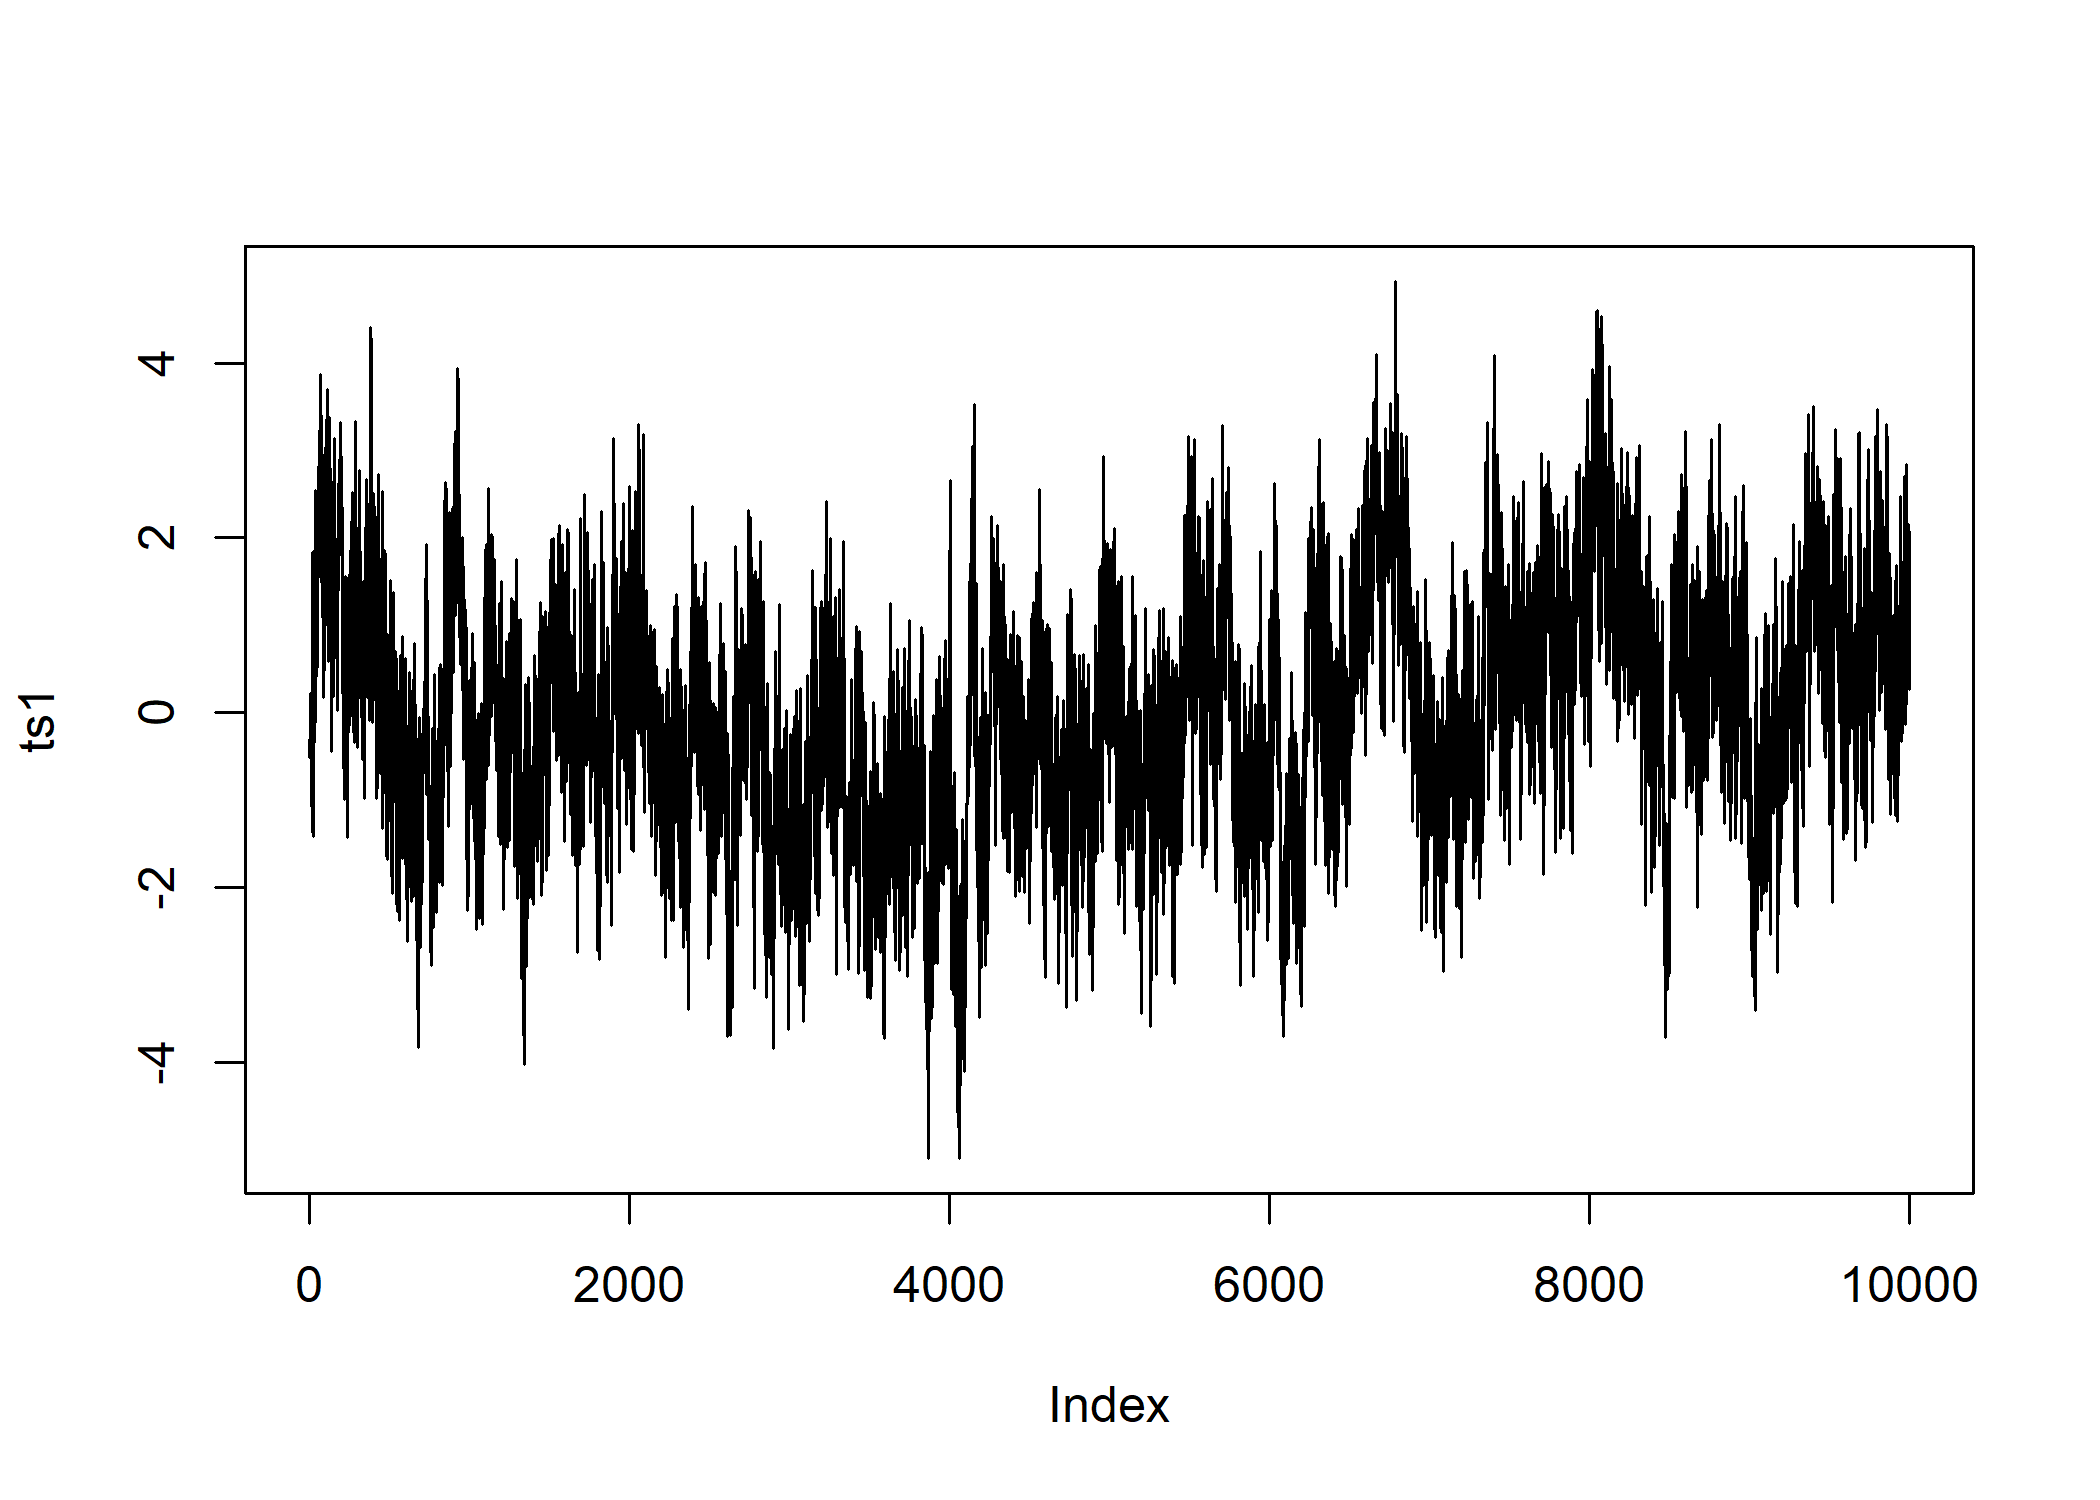
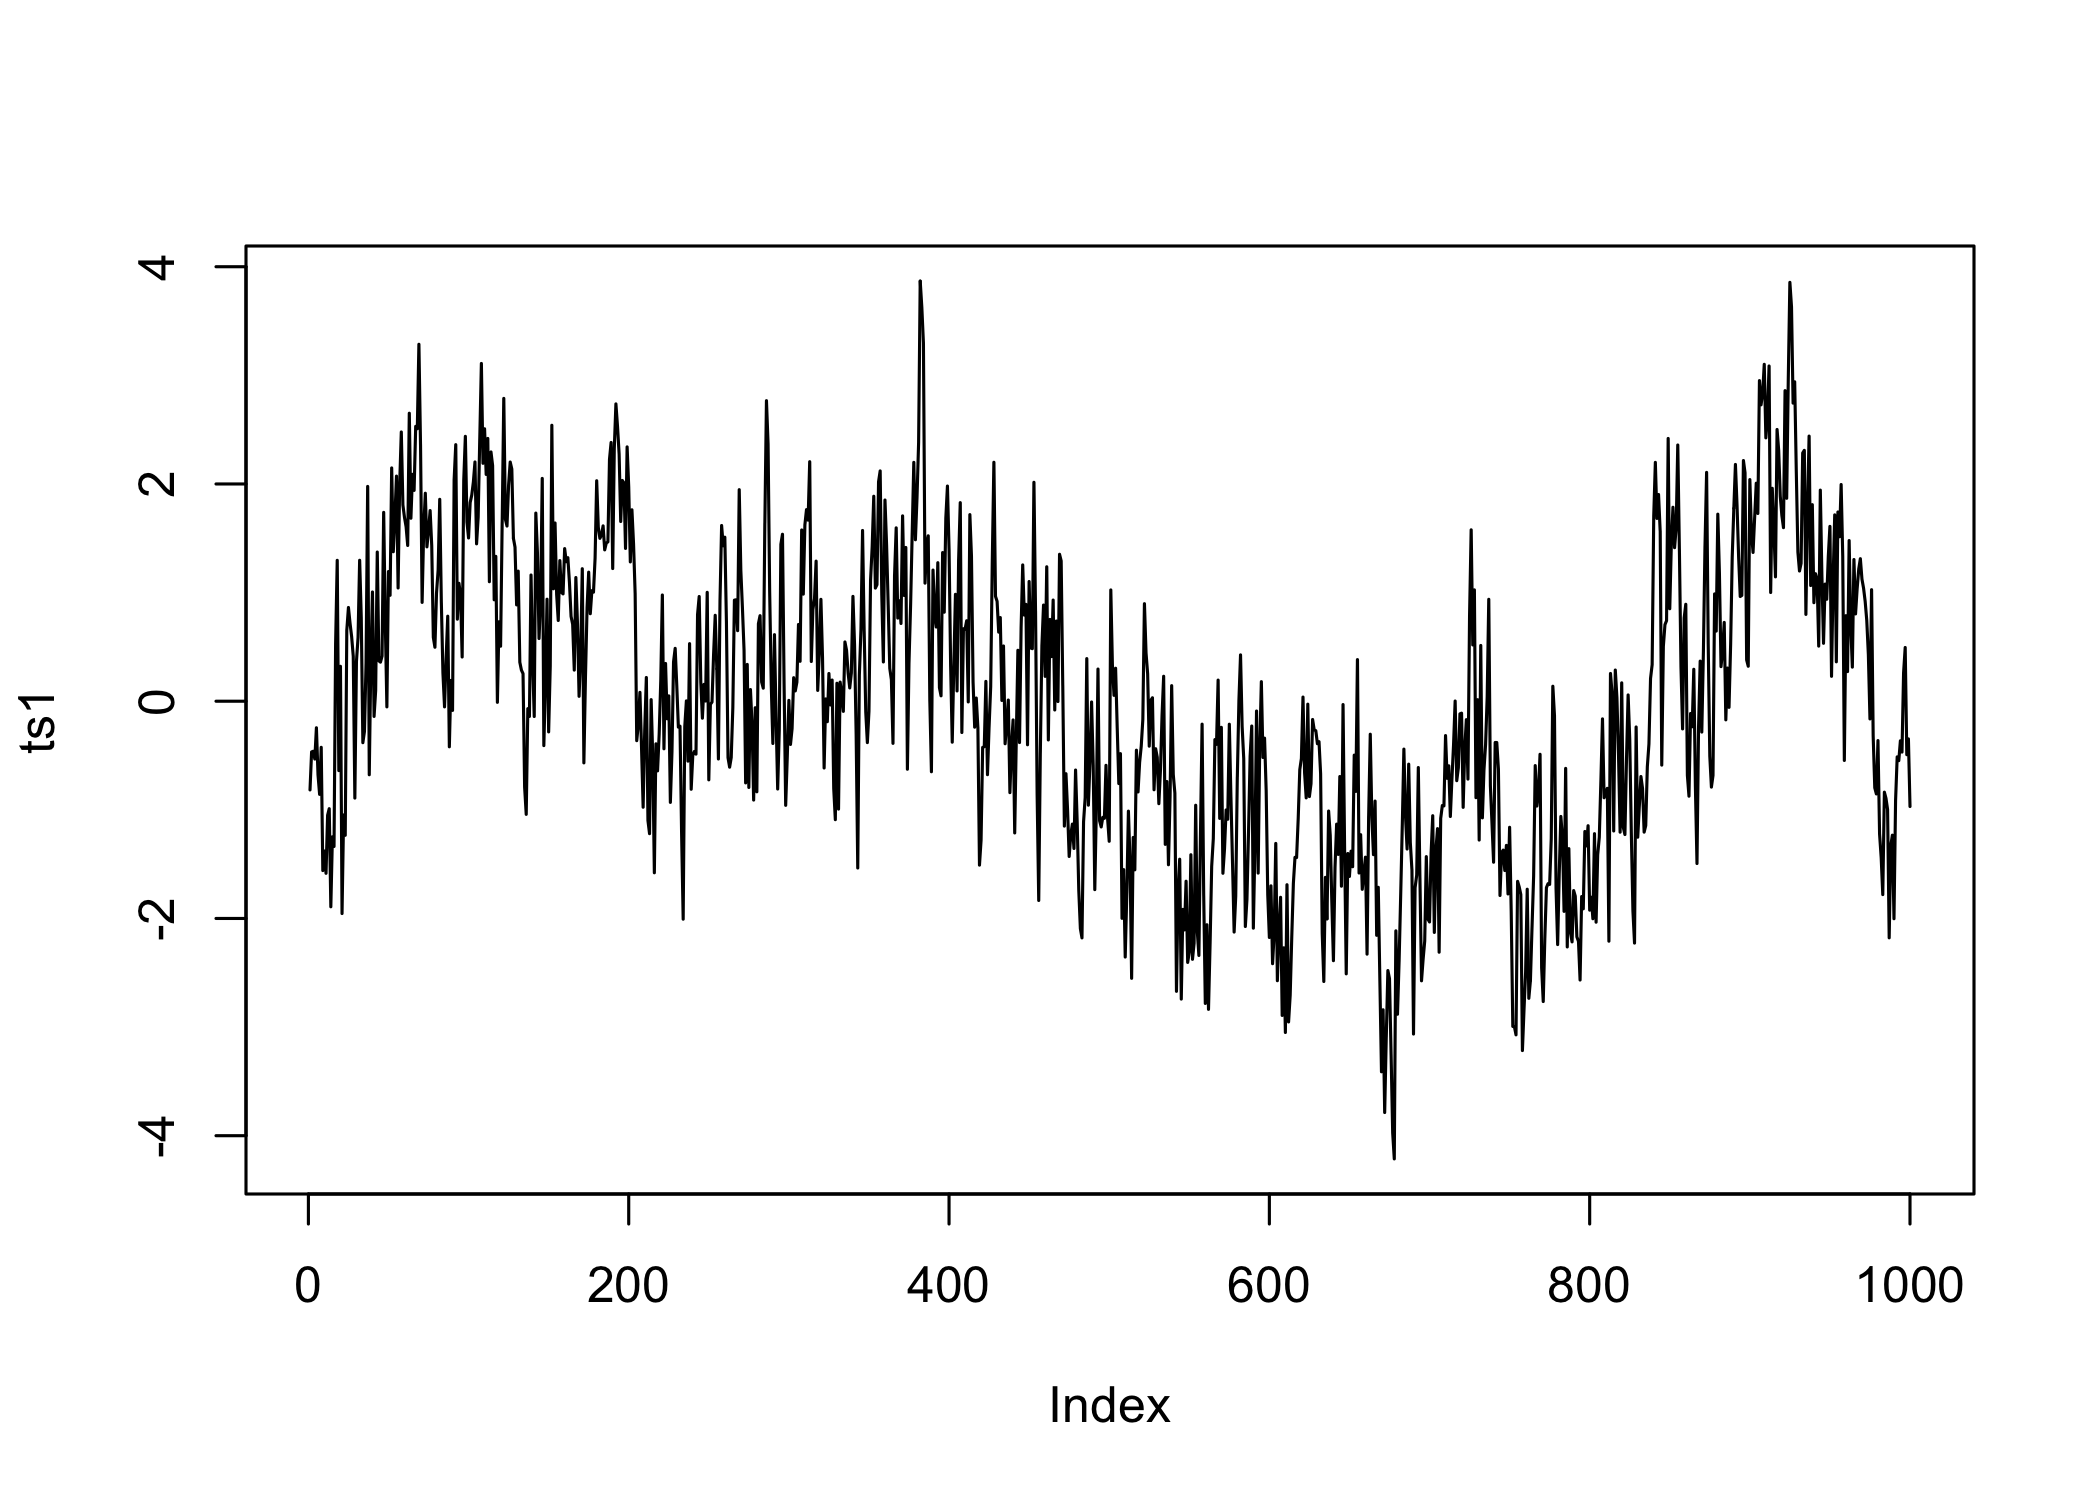
reduce example ts length to 1000

diff --git a/README.md b/README.md
@@ -88,7 +88,7 @@ powerlaw like properties, where: $S(f) = \alpha f^{-\beta}$
 set.seed(20221109)
 
 # length of the time series
-N <- 1e04
+N <- 1e03
 
 # parameters of the powerlaw spectrum
 alpha <- 0.1
